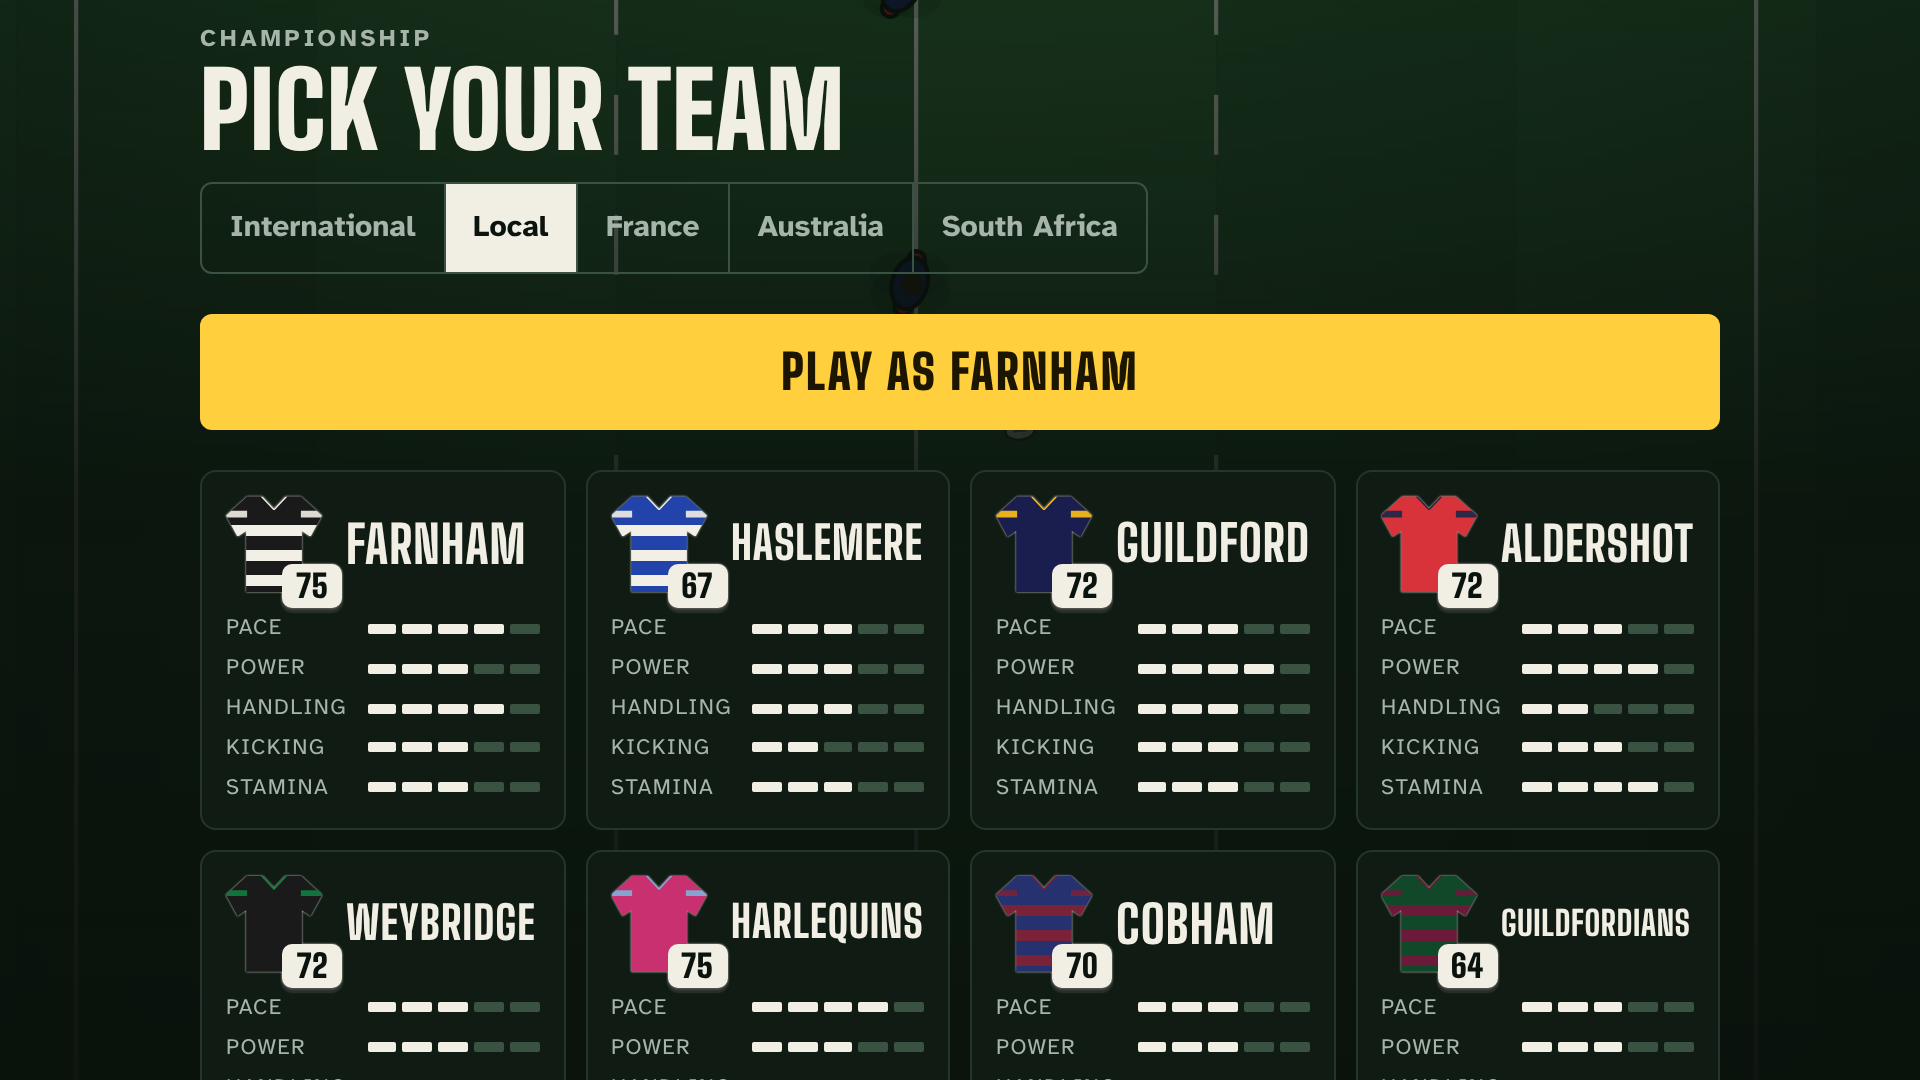
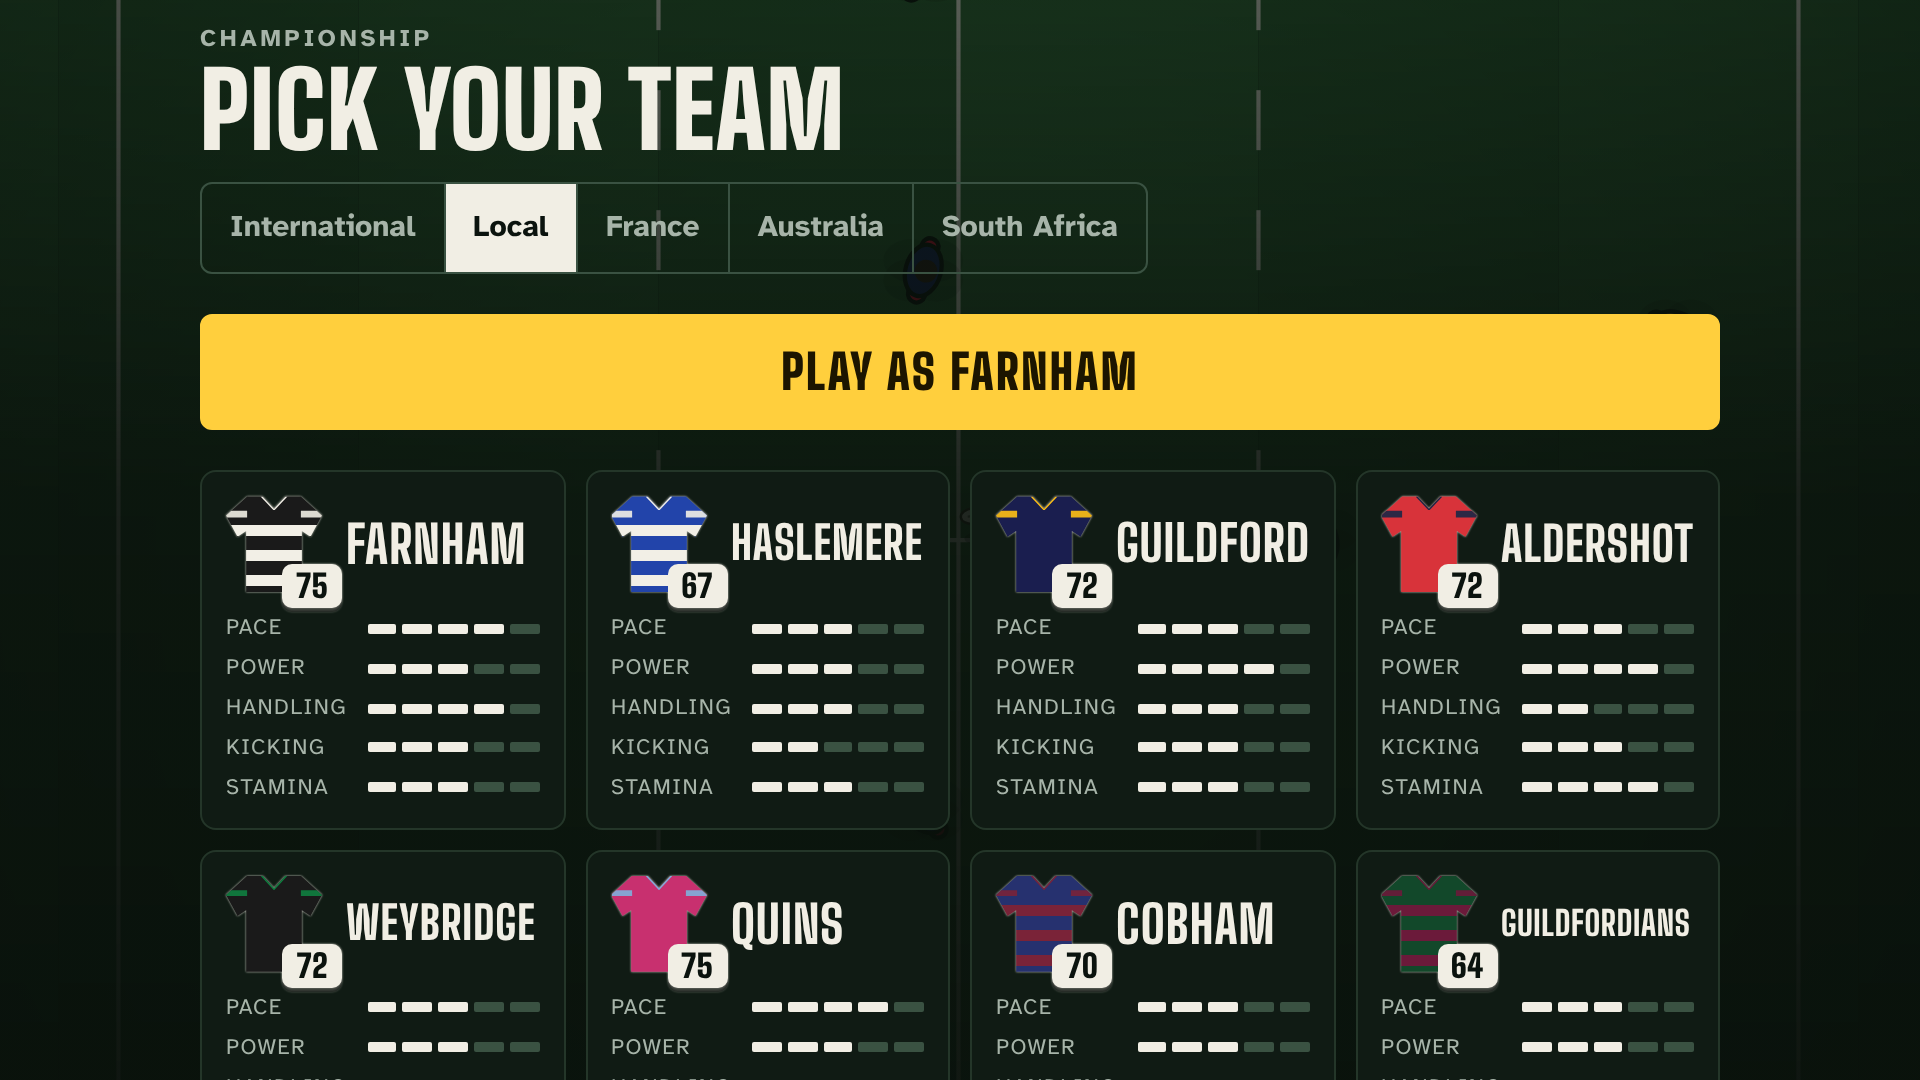
Try Line Rugby: re-shoot the store screenshots as the app
listing-shots stages each moment as the app (store native, already
started) with Full Game owned, so the shots show no locks and the home
has its Grown-Ups button, Quins in the Local list and five ability rows.
All sets re-shot at their exact sizes; SCREENSHOTS.md says how they are
staged. They will be re-shot again after the Mac session's graphics.

Claude-Session: https://claude.ai/code/session_01HebaiwnScpX3pjh7SybkWw

diff --git a/trylinerugby/store-listing/SCREENSHOTS.md b/trylinerugby/store-listing/SCREENSHOTS.md
@@ -35,7 +35,7 @@ Google Play takes at most 8 per type; the App Store takes up to 10. Upload them 
 ## Things to Know Before Uploading
 
 - **Club names show.** The team picker, the career card and the scorebug show Farnham, Haslemere, Guildford, Aldershot, Weybridge, Quins, Cobham and Guildfordians: real local clubs by name and colours (APP_STORE.md, Content Rights). If any club objects, re-shoot. Harlequins was renamed Quins after these shots were taken: re-shoot the team picker and any match against them.
-- **Home shows the free and paid modes alike.** These shots are of today's build, before the store work's locks and Grown-Ups button. Re-shooting after the merge shows the home as the app has it.
+- **The app as a paying family sees it.** The shots are staged as the app with Full Game owned (tools/listing-shots.mjs), so no locks show and the home has its Grown-Ups button. Re-shot on 2026-11-08 after the store, native and Quins changes.
 - **iPad.** The first version is iPhone only (owner, 2026-11-08), so no iPad set is made. On a 13-inch iPad the game draws small with a lot of empty pitch; scaling the layout up is game work for a later version, and its set (2752x2064 from 1376x1032 at 2x) can be added back to `tools/listing-shots.mjs` then.
 - **Sharpness on iPhone.** The game draws its canvas at up to twice the screen's pixels, so on the 3x iPhone set the pitch is upscaled a little while the text stays sharp. The iPad and Play sets are at 2x and fully sharp.
 - **No device frames and no captions.** Both are allowed; plain shots are honest and quick to redo. If captions are added, keep them Title Case, short and true to the shot (Apple rejects screenshots that show what the app does not do), and never say who the app is for by age: guideline 2.3.8 keeps "For Kids" and "For Children" for Apple's Kids Category, and this app is in Sports. `node tools/listing.mjs` checks the caption ideas above.
